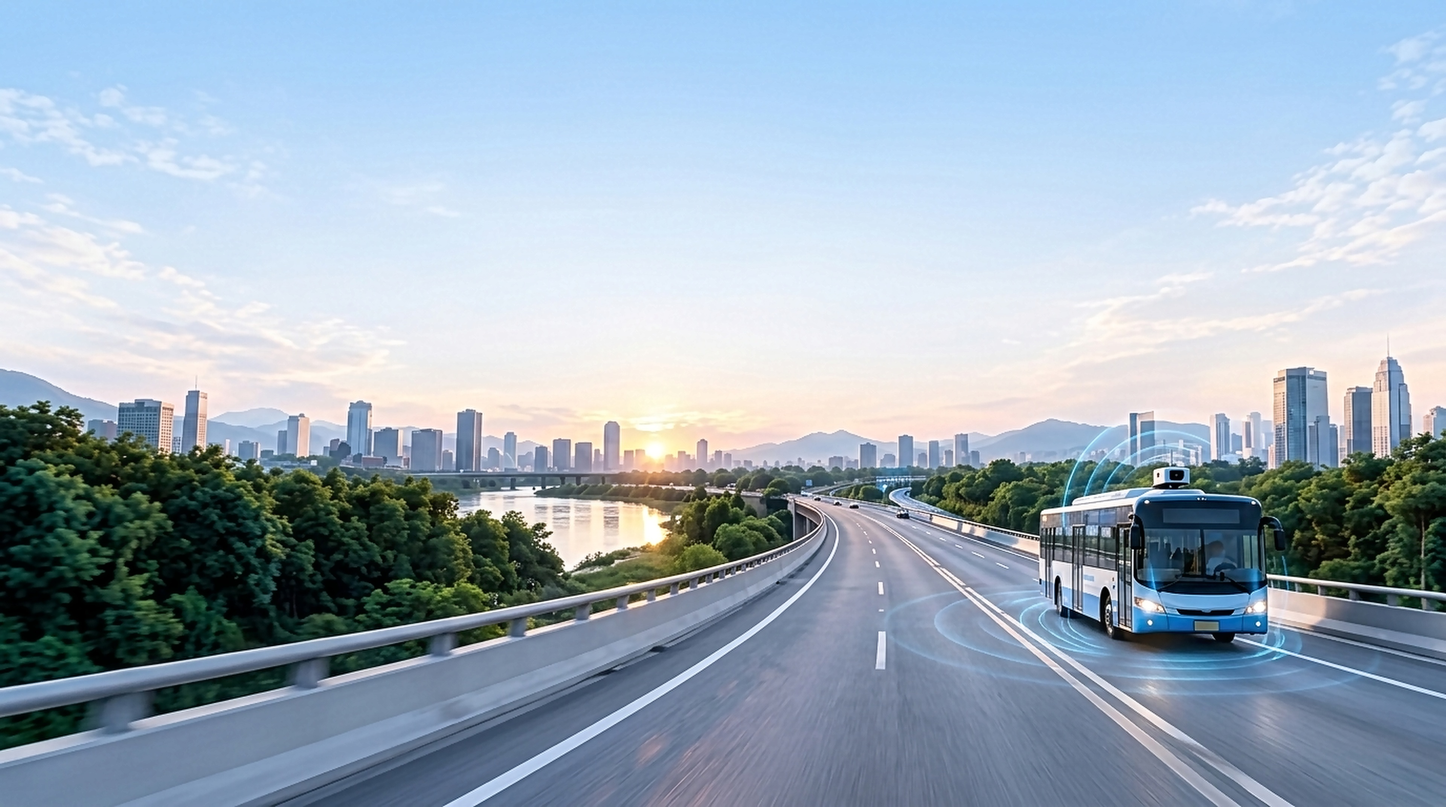
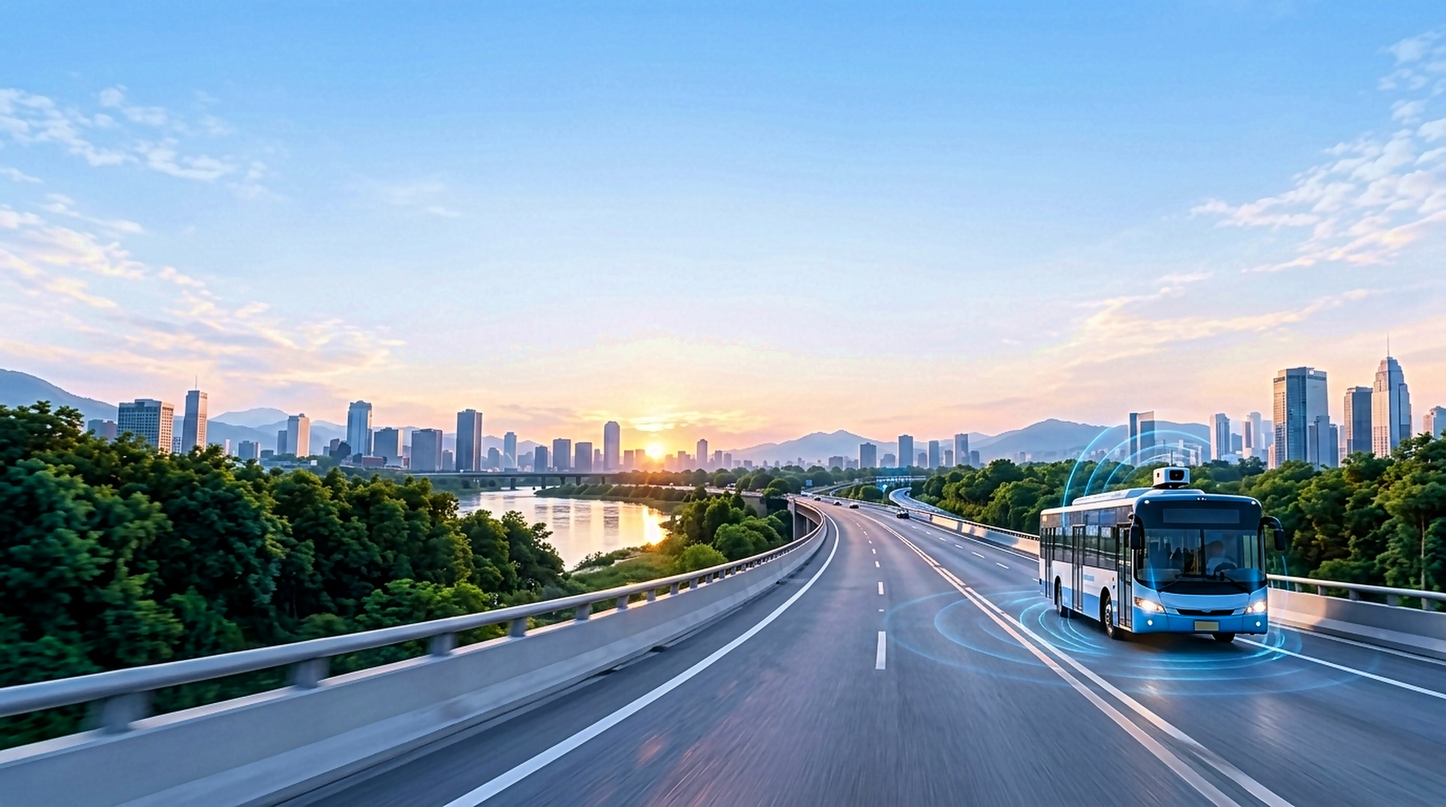
feat(ui): enhance portal background color vibrancy and eliminate dull overlay

diff --git a/index.html b/index.html
@@ -2940,17 +2940,20 @@
     <!-- ========================================================================= -->
     <template x-if="currentView === 'portal-select'">
       <section
-        class="w-full relative min-h-[100svh] lg:h-[100svh] lg:max-h-screen bg-cover bg-center bg-no-repeat flex flex-col justify-between overflow-y-auto lg:overflow-hidden page-enter"
-        style="background-image: url('/portal-background.jpg');">
+        class="w-full relative min-h-[100svh] lg:h-[100svh] lg:max-h-screen flex flex-col justify-between overflow-y-auto lg:overflow-hidden page-enter">
 
-        <!-- Subtle Translucent Overlay (Tones down highway background while keeping cards and typography crisp) -->
-        <div class="absolute inset-0 bg-white/65 backdrop-blur-[2px] pointer-events-none"></div>
+        <!-- Vibrant High-Res Background Image Layer with Vivid Color & Contrast -->
+        <div class="absolute inset-0 bg-cover bg-center bg-no-repeat saturate-[1.25] contrast-[1.06] pointer-events-none"
+          style="background-image: url('/portal-background.jpg');"></div>
+
+        <!-- Subtle Atmospheric Ambient Vignette (Leaves natural colors vivid while grounding cards & typography) -->
+        <div class="absolute inset-0 bg-gradient-to-b from-white/25 via-transparent to-slate-950/30 pointer-events-none"></div>
 
         <!-- Top Navigation Row: Back to Home Link & Brand Logo -->
         <div
           class="relative z-10 max-w-6xl mx-auto px-4 sm:px-6 lg:px-8 pt-4 sm:pt-6 w-full flex items-center justify-between shrink-0">
           <button @click="navigateLanding()"
-            class="inline-flex items-center space-x-1.5 text-xs sm:text-sm font-medium text-slate-600 hover:text-slate-900 bg-white/80 hover:bg-white border border-slate-200/60 px-3.5 py-1.5 rounded-full shadow-2xs backdrop-blur-md transition-all duration-200 cursor-pointer group">
+            class="inline-flex items-center space-x-1.5 text-xs sm:text-sm font-semibold text-slate-700 hover:text-slate-900 bg-white/90 hover:bg-white border border-white/90 px-3.5 py-1.5 rounded-full shadow-md backdrop-blur-md transition-all duration-200 cursor-pointer group">
             <span class="text-slate-400 group-hover:text-slate-700 group-hover:-translate-x-0.5 transition-all">←</span>
             <span>Back to Home</span>
           </button>
@@ -2958,7 +2961,7 @@
           <button @click="navigateLanding()"
             class="flex items-center group cursor-pointer focus:outline-hidden" title="OmniSight Home">
             <img src="/omnisight-logo-transparent.png" alt="OmniSight"
-              class="h-6 sm:h-7 w-auto object-contain transition duration-200 group-hover:opacity-85" />
+              class="h-6 sm:h-7 w-auto object-contain transition duration-200 group-hover:opacity-85 drop-shadow-xs" />
           </button>
         </div>
 
@@ -2968,13 +2971,13 @@
 
           <!-- Header Text Block -->
           <div class="text-center max-w-xl mx-auto mb-6 sm:mb-8 shrink-0">
-            <div class="text-[11px] font-mono font-bold tracking-[0.2em] text-[#0077b6] uppercase mb-1.5">
+            <div class="text-[11px] font-mono font-bold tracking-[0.24em] text-[#0077b6] uppercase mb-1.5 drop-shadow-2xs">
               OMNISIGHT
             </div>
-            <h1 class="text-2xl sm:text-3xl lg:text-4xl font-extrabold tracking-tight text-slate-900 leading-tight">
+            <h1 class="text-2xl sm:text-3xl lg:text-4xl font-extrabold tracking-tight text-slate-900 leading-tight drop-shadow-xs">
               Choose Your Portal
             </h1>
-            <p class="text-xs sm:text-sm text-slate-500 mt-1.5 font-normal">
+            <p class="text-xs sm:text-sm text-slate-600 mt-1.5 font-medium">
               Select a portal to continue.
             </p>
           </div>
@@ -2985,7 +2988,7 @@
 
             <!-- 1. CITY PORTAL CARD -->
             <div @click="openLogin('city')"
-              class="group relative bg-white/90 hover:bg-white border border-slate-200/80 hover:border-sky-300 rounded-[22px] p-6 sm:p-7 shadow-sm hover:shadow-xl shadow-slate-900/5 backdrop-blur-md transition-all duration-200 transform hover:-translate-y-1 cursor-pointer flex flex-col justify-between items-center text-center">
+              class="group relative bg-white/95 hover:bg-white border border-white/90 hover:border-sky-400/80 rounded-[22px] p-6 sm:p-7 shadow-xl hover:shadow-2xl shadow-slate-900/15 backdrop-blur-md transition-all duration-300 transform hover:-translate-y-1.5 cursor-pointer flex flex-col justify-between items-center text-center">
 
               <div class="flex flex-col items-center">
                 <!-- Icon: City / Buildings -->
@@ -3021,7 +3024,7 @@
 
             <!-- 2. WARD PORTAL CARD -->
             <div @click="openLogin('ward')"
-              class="group relative bg-white/90 hover:bg-white border border-slate-200/80 hover:border-emerald-300 rounded-[22px] p-6 sm:p-7 shadow-sm hover:shadow-xl shadow-slate-900/5 backdrop-blur-md transition-all duration-200 transform hover:-translate-y-1 cursor-pointer flex flex-col justify-between items-center text-center">
+              class="group relative bg-white/95 hover:bg-white border border-white/90 hover:border-emerald-400/80 rounded-[22px] p-6 sm:p-7 shadow-xl hover:shadow-2xl shadow-slate-900/15 backdrop-blur-md transition-all duration-300 transform hover:-translate-y-1.5 cursor-pointer flex flex-col justify-between items-center text-center">
 
               <div class="flex flex-col items-center">
                 <!-- Icon: Location / Pin -->
@@ -3059,7 +3062,7 @@
 
             <!-- 3. DEVELOPER PORTAL CARD -->
             <div @click="openLogin('dev')"
-              class="group relative bg-white/90 hover:bg-white border border-slate-200/80 hover:border-purple-300 rounded-[22px] p-6 sm:p-7 shadow-sm hover:shadow-xl shadow-slate-900/5 backdrop-blur-md transition-all duration-200 transform hover:-translate-y-1 cursor-pointer flex flex-col justify-between items-center text-center">
+              class="group relative bg-white/95 hover:bg-white border border-white/90 hover:border-purple-400/80 rounded-[22px] p-6 sm:p-7 shadow-xl hover:shadow-2xl shadow-slate-900/15 backdrop-blur-md transition-all duration-300 transform hover:-translate-y-1.5 cursor-pointer flex flex-col justify-between items-center text-center">
 
               <div class="flex flex-col items-center">
                 <!-- Icon: CPU / Developer -->
@@ -3099,7 +3102,7 @@
 
         <!-- Subtle Minimal Footer -->
         <div
-          class="relative z-10 w-full py-3 sm:py-4 px-4 text-center text-xs font-medium text-slate-500 shrink-0">
+          class="relative z-10 w-full py-3 sm:py-4 px-4 text-center text-xs font-semibold text-slate-700/80 drop-shadow-2xs shrink-0">
           OmniSight • Edge-AI Road Intelligence
         </div>
 
